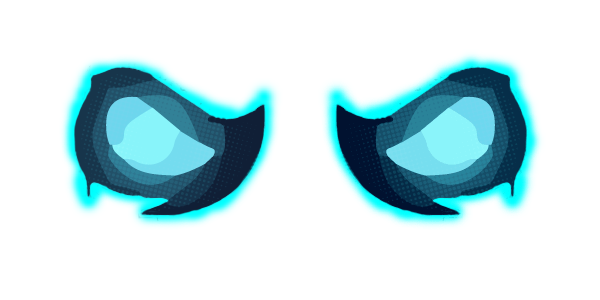
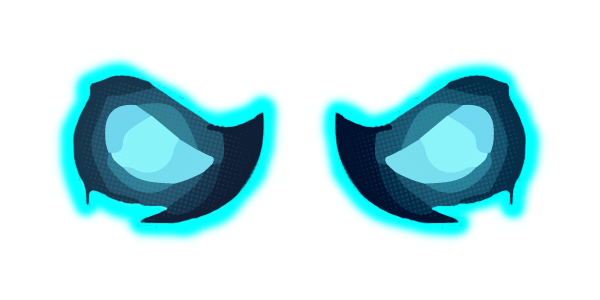
draft footer done

Changed region(s): [[0.51, 0.18, 0.93, 0.81], [0.09, 0.18, 0.48, 0.81]]

diff --git a/server/public/main.css b/server/public/main.css
@@ -37,6 +37,9 @@ h1 {
 
 /* -------- Reuseable ------- */
 
+a {
+  text-decoration: none;
+}
 .fixed {
  display: flex;
  background-color: transparent;
@@ -377,7 +380,7 @@ h1 {
     font-weight: 700;
     background-color: black;
     color:  #40E0D0;
-    height: 10%;
+    height: 8%;
     width: 100%;
     max-width: 100%;
   }
@@ -417,6 +420,7 @@ h1 {
 
 }
 .mediaTitle {
+font-family: 'Orbitron', 'Arial', 'sans-serif';
 padding-top: 4%;
 padding-bottom: 10%;
 }
@@ -444,12 +448,12 @@ padding-bottom: 10%;
     font-family: 'Orbitron', 'Arial', 'sans-serif';
     color: white;
     font-size: 0.8rem;
-    padding-top: 30px;
     text-align: center;
     padding-bottom: 0.5%;
 }
 
 .contactTitle {
+  font-family: 'Orbitron', 'Arial', 'sans-serif';
   color: #40E0D0;
   padding-top: 3%;
 padding-bottom: 4%;
@@ -460,9 +464,44 @@ padding-bottom: 4%;
     flex-direction: row;
     color: white;
   }
+.contact {
+  padding-top: 0.5%;
+  padding-bottom: 0.5%;
+}
+
+a:link,
+a:visited {
+    color: white;
+    text-decoration: none;
+    transition: color 0.2s;
+    transition: color 0.2s;
+}
+a:hover,
+a:active {
+    color: #40E0D0;
+    text-shadow: 0px 0px 25px #40E0D0;
+    -moz-transition: all 0.2s ease-in;
+    -o-transition: all 0.2s ease-in;
+    -webkit-transition: all 0.2s ease-in;
+    transition: all 0.2s ease-in;
+    }
+
 
   .brand {
   color: #40E0D0;
+  }
+
+.footerImg {
+  display: flex;
+  justify-content: center;
+  width: 100%;
+  max-width: 100%;
+}
+
+  .footerEyes {
+    height: 150px;
+    width: auto;
+    margin-top: -2%;
   }
 
   /* -------- Services Home ------- */

diff --git a/client/components/Footer.jsx b/client/components/Footer.jsx
@@ -13,8 +13,8 @@ class Footer extends React.Component {
                         <div className="leftFooter">
                             <div className="contactTitle">CONTACT US</div>
                             <div id="contactLinks"></div>
-                            <a>0204198333</a>
-                            <a>matthew@phearnoc.com</a>
+                            <a href="tel:02041988333" className="contact">02041988333</a>
+                            <a href="mailto:matthew@phearnoc.com" className="contact">matthew@phearnoc.com</a>
                         </div>
                         <div className="socialMedia">
                             <div className="mediaTitle">SOCIAL MEDIA</div>
@@ -25,8 +25,9 @@ class Footer extends React.Component {
                             </div>
                         </div>
                     </div>
+                    <div className="footerImg"><img src="./img/eyes.png" alt="Eyes" className="footerEyes"></img></div>
                     <div className="copyrightText">
-                        Copyright &copy; 2020&nbsp;<p className="brand">PHEARNOC Digital.</p>&nbsp;All rights reserved.<br />
+                        Copyright &copy; 2020&nbsp;<p className="brand">PHEARNOC Digital</p>. All rights reserved.<br />
                     </div>
                 </div>
             </React.Fragment>

diff --git a/client/components/Customers.jsx b/client/components/Customers.jsx
@@ -8,7 +8,7 @@ class Customers extends React.Component {
     render() {
         return (
             <React.Fragment>
-            <h1>Here are some of our customers!</h1>
+            <h1>Here are some of our clients!</h1>
             <div className="homeArea"> 
                 <img src="./img/flashgas.png" alt="flashgas logo" className="customerLogo"></img>
                 <img src="./img/deathless.png" alt="deathless logo" className="customerLogo"></img>
